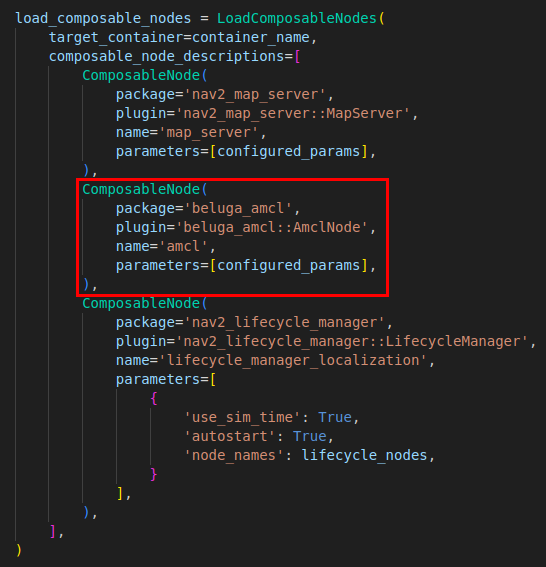
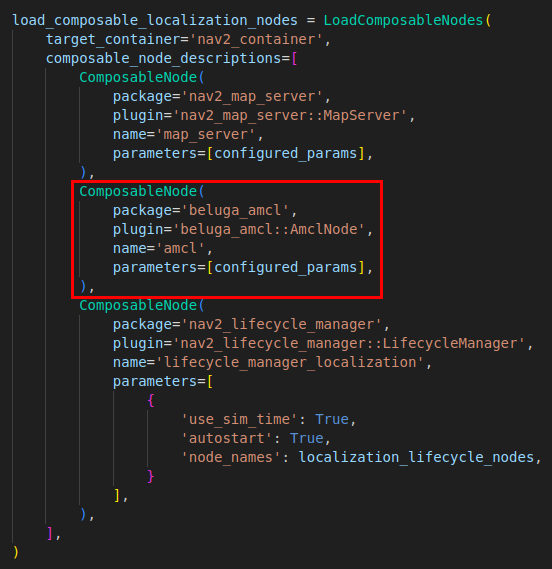
Address suggested comments + others modifications

diff --git a/docs/tutorials/nav2-integration.md b/docs/tutorials/nav2-integration.md
@@ -6,23 +6,23 @@
 
 ## Overview
 
-[Nav2](https://docs.nav2.org/index.html) is a ROS2 framework that includes several components for robot navigation. Among these components is the localization system, which typically uses the [nav2_amcl](https://github.com/ros-navigation/navigation2/tree/humble/nav2_amcl) implementation.
+[Nav2](https://docs.nav2.org/index.html) is a ROS 2 framework that includes several components for robot navigation. One of these components is the localization system, typically [nav2_amcl](https://github.com/ros-navigation/navigation2/tree/humble/nav2_amcl).
 
-This tutorial will demonstrate how to integrate [beluga_amcl](../packages/beluga_amcl/docs/index.md) into the Nav2 stack as an alternative to the default `nav2_amcl`.
+This tutorial will demonstrate how to use [beluga_amcl](../packages/beluga_amcl/docs/index.md) in place for `nav2_amcl`.
 
-To keep things straightforward, we’ll base this tutorial on the [Nav2 Getting Started Guide](https://docs.nav2.org/getting_started/index.html#). We will use the simulated robot and environment provided by [TurtleBot 3](https://emanual.robotis.com/docs/en/platform/turtlebot3/quick-start/).
+To keep it simple, we have built this tutorial on top of the [Nav2 Getting Started Guide](https://docs.nav2.org/getting_started/index.html#). We will use the same simulated [TurtleBot 3](https://emanual.robotis.com/docs/en/platform/turtlebot3/quick-start/) robot and environment.
 
 ## Requirements
 
 :::{important}
-This tutorial is using ROS2 **Humble**.
+This tutorial is using ROS 2 **Humble**.
 :::
 
-Install [ROS2](https://docs.ros.org/en/humble/Installation/Ubuntu-Install-Debians.html), [Beluga](../getting-started/installation.md) and [Nav2](https://docs.nav2.org/getting_started/index.html#installation).
+Install [ROS2](https://docs.ros.org/en/humble/Installation/Ubuntu-Install-Debians.html), [Beluga](../getting-started/installation.md), and [Nav2](https://docs.nav2.org/getting_started/index.html#installation).
 
 ## Create the workspace
 
-Since we are using ROS2, we need to create a workspace. Open a terminal and run the following command:
+Since we are using ROS 2, we need to create a workspace. Open a terminal and run the following command:
 
 ```bash
 mkdir -p ~/beluga_demo_ws/src
@@ -34,25 +34,21 @@ mkdir -p ~/beluga_demo_ws/src
 
 The [beluga_demo](https://github.com/Ekumen-OS/beluga-demos) is a public repository where you can find the `beluga_demo_nav2` package, among others.
 
-Clone the repository into the workspace you created earlier:
+Clone the [`Ekumen-OS/beluga-demos`](https://github.com/Ekumen-OS/beluga-demos) repository in your workspace:
 
 ```bash
 cd ~/beluga_demo_ws/src
 git clone https://github.com/Ekumen-OS/beluga-demos.git
 ```
 
-:::{note}
-For this tutorial, we will use only the `beluga_demo_nav2` package from the `beluga_demo` repository. This package contains all the necessary files to launch the simulation.
-:::
+For this tutorial, we will only use the `beluga_demo_nav2` package in that repository. This package contains all the necessary files to launch the simulation.
 
 ### Explanation
 
-As explained in the [beluga_amcl ROS2 reference](../packages/beluga_amcl/docs/ros2-reference.md), `beluga_amcl` is feature-wise compatible with `nav2_amcl`.
-
-Because of this, we copied the necessary folders and files from `nav2_bringup` to the `beluga_demo_nav2` package, simplified them, and replaced the use of `nav2_amcl` with `beluga_amcl` in the `localization_launch.py` launch file, as shown in the following images.
+Since `beluga_amcl` is feature-wise compatible with `nav2_amcl` (as thoroughly discussed in the [`beluga_amcl` ROS 2 reference page](../packages/beluga_amcl/docs/ros2-reference.md)), we can adapt to use `beluga_amcl` instead of `nav2_amcl` by loading the `beluga_amcl` component into the `nav2_container` as it is done in the `beluga_nav2_launch.py` file:
 
 :::{figure} ../_images/beluga_amcl.png
-:alt: beluga_amcl component in localization_launch.py from beluga_demo_nav2 package.
+:alt: beluga_amcl component in beluga_nav2_launch.py from beluga_demo_nav2 package.
 :align: center
 
 Load of beluga_amcl composable node from beluga_demo_nav2 package.
@@ -65,7 +61,7 @@ Load of beluga_amcl composable node from beluga_demo_nav2 package.
 Load of nav2_amcl composable node from nav2_bringup package.
 :::
 
-Similarly, the parameter file we use is the same as the one from the `nav2_bringup` package, with minimal modifications. These modifications are explained in the table found on the *beluga_amcl ROS2 reference* page.
+That is what the `beluga_demo_nav2` package does. Even the same parameter file can be used unchanged, though `beluga_demo_nav2` does apply a few minimal changes to better configure `beluga_amcl`, as explained in reference page.
 
 ## Run the example
 
@@ -77,22 +73,22 @@ cd ~/beluga_demo_ws
 colcon build --symlink-install --packages-up-to beluga_demo_nav2
 ```
 
-Launch the program:
+Launch the system:
 
 ```bash
 source install/local_setup.bash
-ros2 launch beluga_demo_nav2 beluga_demo_nav2_launch.py
+ros2 launch beluga_demo_nav2 bringup_launch.py
 ```
 
-After launching the program, you should see rviz2 open with a map loaded and the robot initialized in an incorrect position. You should also see Gazebo open with the TurtleBot 3 world and robot spawned.
+You should see `rviz2` open with a map loaded and the robot initialized in an incorrect position. You should also see Gazebo open with both TurtleBot 3 world and robot spawned.
 
 :::{image} ../_images/beluga_nav2_rviz.png
-:alt: nav2_amcl component in localization_launch.py from nav2_bringup package.
+:alt: beluga_amcl component in beluga_nav2_launch.py from beluga_demo_nav2 package.
 :align: center
 :::
 
 :::{image} ../_images/beluga_nav2_gazebo.png
-:alt: nav2_amcl component in localization_launch.py from nav2_bringup package.
+:alt: beluga_amcl component in beluga_nav2_launch.py from beluga_demo_nav2 package.
 :align: center
 :::
 
@@ -100,8 +96,8 @@ After launching the program, you should see rviz2 open with a map loaded and the
 If the robot is not spawned in gazebo, check the `GAZEBO_MODEL_PATH` environment variable set in the `beluga_demo_nav2_launch.py` file.
 :::
 
-At this point, the program is ready to start. You can use the rviz2 tools to set the correct initial pose of the robot and to navigate the robot alongside the map.
+You can use `rviz2` tools to set the correct initial pose of the robot and to navigate the robot around the map.
 
 ## Conclusion
 
-This tutorial demonstrates a specific integration case using ROS2 Humble and the TurtleBot 3 with Nav2. You can also try using Beluga with other ROS/ROS2 versions and different types of robots.
+This tutorial integrates Beluga and Nav2 for a simulated TurtleBot 3 on ROS 2 Humble. You may also try using Beluga on other supported ROS 2 versions, with different types of robots.
